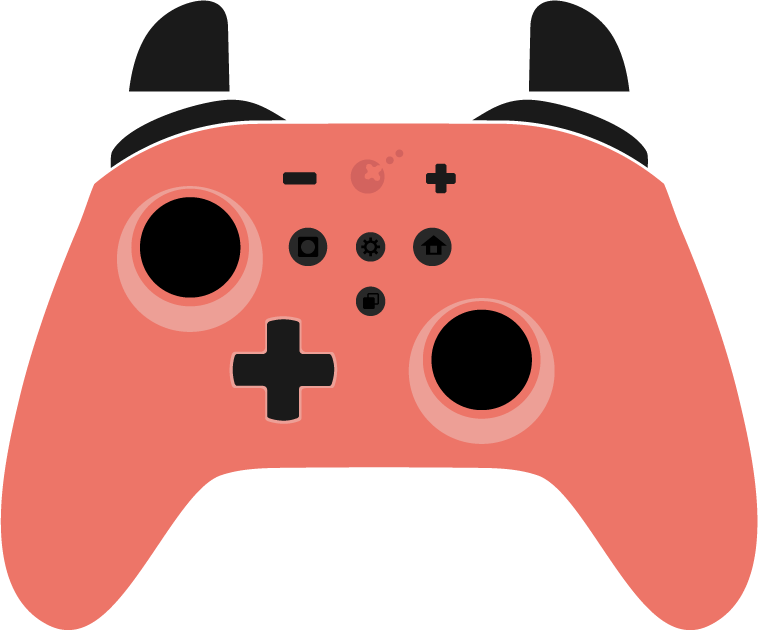
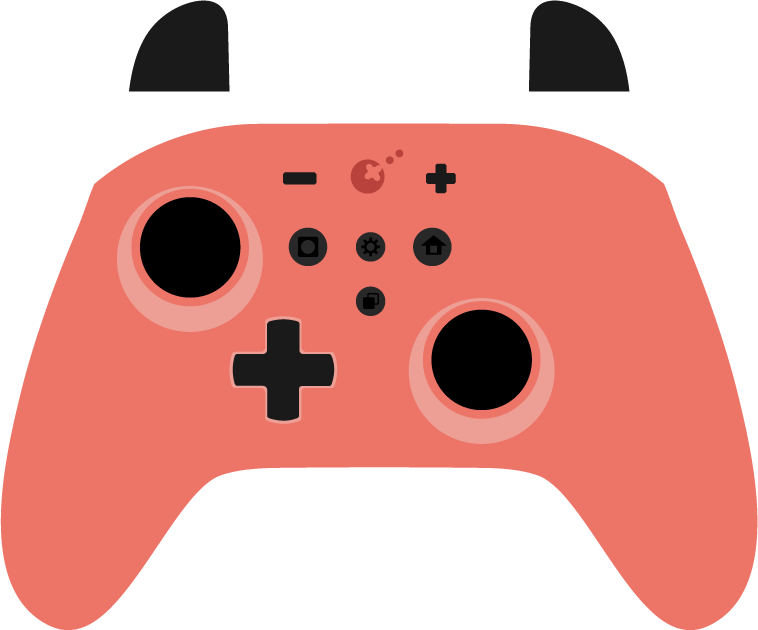
Add files via upload

Changed region(s): [[0.6069, 0.1508, 0.8799, 0.2714], [0.1214, 0.1508, 0.3945, 0.2714], [0.4551, 0.2413, 0.5462, 0.3016]]

diff --git a/gulikit-kingkong-pink/gulikitkkpink.css b/gulikit-kingkong-pink/gulikitkkpink.css
@@ -1,13 +1,13 @@
 
 .controller.custom {
-    background: url(base.svgz); 
+    background: url(base.png); 
     height: 630px;
     width: 758px;
 }
 
 
 .custom.disconnected { /* This class shows an image when the controller is disconnected */
-    background: url(disconnected.svgz);
+    background: url(disconnected.png);
 }
 
 
@@ -30,7 +30,7 @@
 .custom .trigger {/* These are the actual triggers themselves */
     width:100px;
     height:91px;
-    background: url(trigger.svgz);
+    background: url(trigger.png);
 }
 
 .custom .trigger.pressed {
@@ -46,10 +46,10 @@
 }
 
 .custom .bumpers {
-    width: 535px;
+    width: 537px;
     height: 67px;
-    left: 112px;
-    top:  99px;
+    left: 111px;
+    top:  98px;
     position: absolute;
 }
 
@@ -60,11 +60,12 @@
 .custom .bumper{
     width: 174px;
     height: 68px;
+    background: url(bumper.png);
 
 }
 
 .custom .bumper.pressed {
-    background: url(bumper.svgz);
+    background-position-y: -68px;
 }
 
 .custom .bumper.left{
@@ -90,7 +91,7 @@
 
 .custom .stick {
     position: absolute;
-    background: url(stick.svgz);
+    background: url(stick.png);
     height: 86px;
     width: 86px;
 }
@@ -135,7 +136,7 @@
 }
 
 .custom .face.pressed{
-    background: url(dpad.svgz);
+    background: url(dpad.png);
 
 }
 .custom .face.up{
@@ -178,7 +179,7 @@
     position: absolute;
     width: 50px;
     height: 50px;
-    background: url(face.svgz);
+    background: url(face.png);
 }
 .custom .button.pressed {
     background-position-y: -50px;
@@ -210,21 +211,19 @@
 }
 
 .custom .back {
-    background: url(start.svgz);
+    background: url(start.png);
     width: 34px;
     height: 29px;
-    opacity: 0;
     float: left;
 }
 
 .custom .start {
-    background: url(start.svgz);
+    background: url(start.png);
     width: 29.5px;
     height: 29.5px;
-    opacity: 0;
     float: right;
     background-position: 30px 0;
 }
 .custom .back.pressed, .custom .start.pressed {
-    opacity: 1;
+    background-position-y: -30px;
 }
